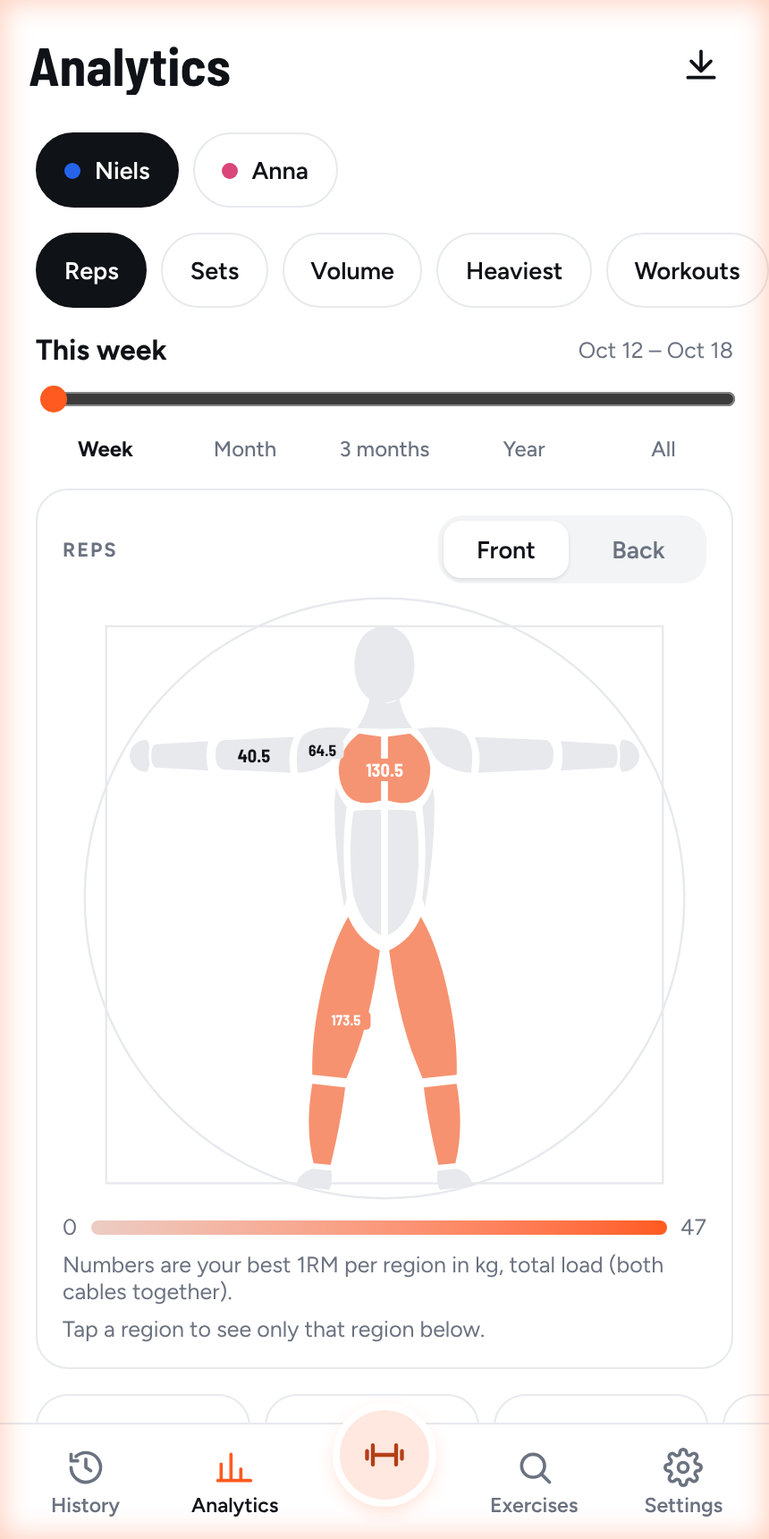
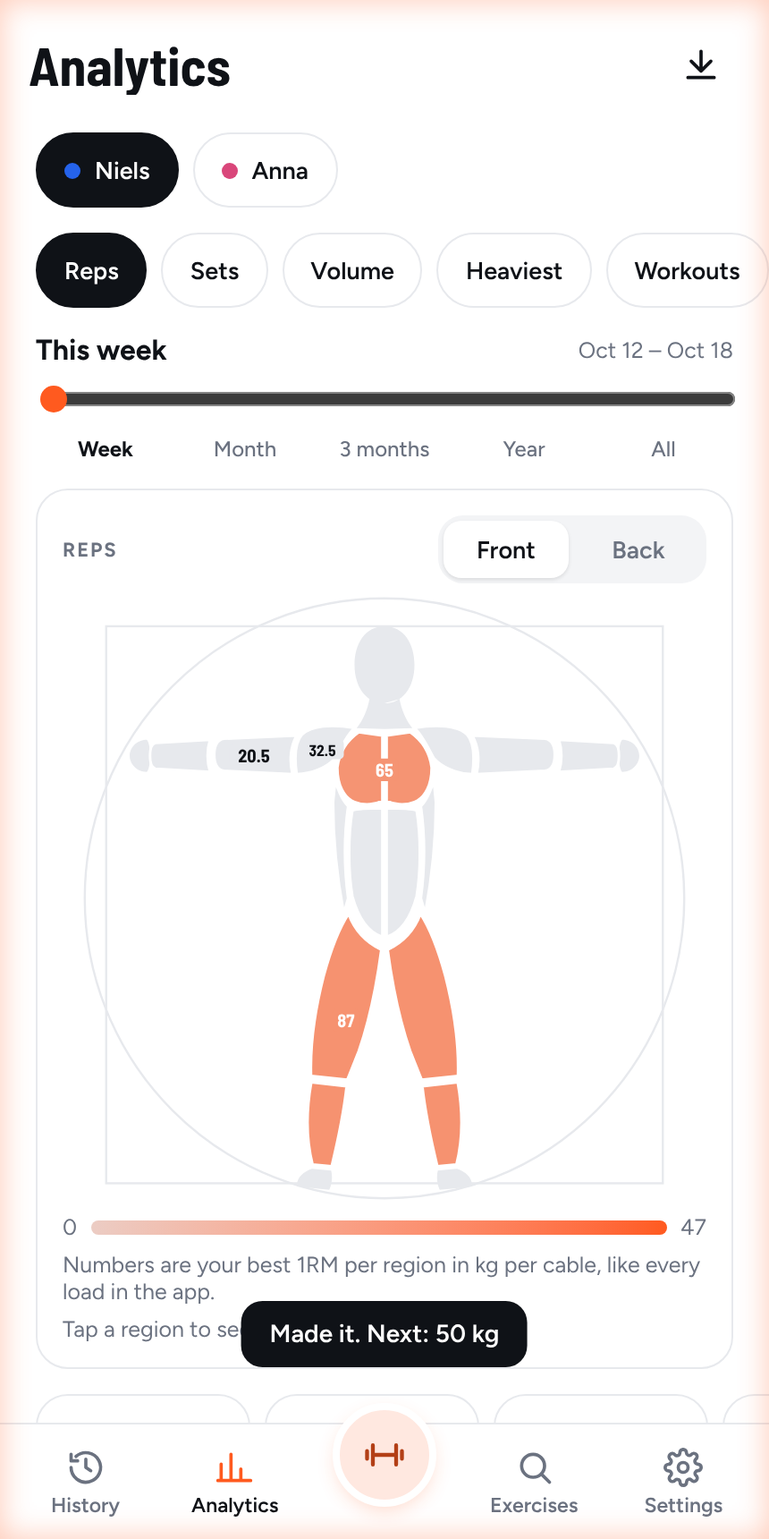
Web demo: 3RM test, per-cable loads with cable mark, live averages (#5)
Brings docs/demo in line with the app: the strength test uses 3-rep
attempts and estimates the 1RM, every load is per cable with a 1/2-cable
mark (body map and 1RM list too), the lifting screen shows Load, Now and
30-day/all-time/best averages, and a no-trainer hint on test attempts.

Claude-Session: https://claude.ai/code/session_016LFfm9ZQ75rLxN4S9CxZRX

diff --git a/docs/demo/index.html b/docs/demo/index.html
@@ -60,6 +60,7 @@ button{font-family:inherit}
 .star.on{color:#F59E0B}
 .orm{display:flex;flex-direction:column;align-items:flex-end;gap:2px;flex:none}
 .orm b{font-family:var(--f-num);font-size:17px;font-weight:700;line-height:1.1}
+.cm{display:inline-block;vertical-align:-1px;opacity:.7;margin-left:4px}
 .tag{font-size:10px;font-weight:700;letter-spacing:.06em;text-transform:uppercase;background:var(--accent-soft);color:var(--accent-ink);border-radius:999px;padding:3px 8px;white-space:nowrap}
 .tag.grey{background:var(--soft);color:var(--muted)}
 .tag.ok{background:var(--ok-soft);color:var(--ok)}
@@ -187,7 +188,7 @@ table.sets th{font-size:11px;letter-spacing:.06em;text-transform:uppercase;color
   <p>A clickable web version of the new layout with a simulated trainer, so you can try every flow without installing the app. Open the link on your phone for the real feel.</p>
   <p>New: the first launch shows onboarding (account, optional PIN, Garmin heart rate) and an app tour with arrows. Settings → Account sets a PIN or switches account; Settings → Help replays the tour. Reset demo data to see the first launch again.</p>
   <p>Train is now a home screen: the training you're doing (anything within 5 hours of the last exercise), live heart rate, and your oldest 1RMs to re-test. Pick an LED colour in Settings and the whole app follows it.</p>
-  <p>Analytics opens on a body map: each region is coloured by the measure and period you pick, with your best 1RM inside it as total load (both cables). Tap a region to narrow the screen to it.</p>
+  <p>Analytics opens on a body map: each region is coloured by the measure and period you pick, with your best 1RM inside it per cable. Tap a region to narrow the screen to it.</p>
   <p>Everything the classic app does has a place here: training, Just Lift, the 1RM test, history, analytics, profiles, trainer connection and all settings. Example lifters and workouts are pre-filled; your changes stay in this browser.</p>
   <button type="button" id="reset">Reset demo data</button>
 </aside>
@@ -277,6 +278,10 @@ const loadFor=(orm,p)=>orm<=0?0:clampKg(orm*p/100);
 const U=()=>S.settings.unit;
 const num=kg=>{if(U()==='lb')return String(Math.round(kg*LB));const r=Math.round(kg*2)/2;return r%1===0?r.toFixed(0):r.toFixed(1)};
 const W=kg=>num(kg)+' '+U();
+// Cable mark: every load is per cable; one or two lines with a handle say how many cables carry it.
+const CM=c=>`<svg class="cm" viewBox="0 0 ${c===2?14:8} 16" width="${c===2?11:6}" height="13" role="img" aria-label="${c===2?'two cables':'one cable'}">${(c===2?[3.5,10.5]:[4]).map(x=>`<line x1="${x}" y1="1" x2="${x}" y2="10.5" stroke="currentColor" stroke-width="2" stroke-linecap="round"/><circle cx="${x}" cy="13.5" r="2.5" fill="currentColor"/>`).join('')}</svg>`;
+const cabOf=id=>{const e=EX(id);return e&&e.single?1:2};
+const WC=(kg,c)=>W(kg)+CM(c);
 const nudgeKg=()=>U()==='lb'?1/LB:STEP;
 function hist(lid,ex){const out=[];S.sessions.forEach(s=>s.sets.forEach(x=>{if(x.lid===lid&&(!ex||s.ex===ex))out.push({ex:s.ex,kg:x.kg,reps:x.reps,t:s.t,mode:s.mode})}));return out}
 function oneRM(lid,ex,depth){
@@ -329,7 +334,7 @@ function longestStanding(limit){
 const setAgo=t=>{const d=Math.floor((Date.now()-t)/86400000);return d<=0?'set today':d===1?'set yesterday':d<14?'set '+d+' days ago':d<60?'set '+Math.floor(d/7)+' weeks ago':'set '+Math.floor(d/30)+' months ago'};
 const esc=s=>String(s).replace(/[&<>"]/g,c=>({'&':'&amp;','<':'&lt;','>':'&gt;','"':'&quot;'}[c]));
 function log(level,msg){R.logs.push({t:new Date(),level,msg});if(R.logs.length>300)R.logs.shift()}
-['Phoenix started','BLE adapter ready','Loaded 31 exercises','Profiles: 2'].forEach(m=>log('INFO',m));
+['vitruvian- started','BLE adapter ready','Loaded 31 exercises','Profiles: 2'].forEach(m=>log('INFO',m));
 
 // ===================== icons =====================
 const I={
@@ -378,7 +383,7 @@ const lifterChips=(sel,attr,multi)=>S.lifters.map(l=>{const on=multi?sel.include
 function ormColumn(ex){
   const e=EX(ex); if(e.bw)return `<div class="orm"><span class="tag grey">Bodyweight</span></div>`;
   const ls=activeL();const miss=ls.filter(l=>!oneRM(l.id,ex));
-  let h=ls.map(l=>{const o=oneRM(l.id,ex);return o?`<b style="color:${color(l)}">${o.src==='RELATED'?'~':''}${W(o.kg)}</b>`:''}).join('');
+  let h=ls.map(l=>{const o=oneRM(l.id,ex);return o?`<b style="color:${color(l)}">${o.src==='RELATED'?'~':''}${WC(o.kg,cabOf(ex))}</b>`:''}).join('');
   if(miss.length&&miss.length===ls.length)h+=`<span class="tag">Benchmark</span>`;
   else if(miss.length)h+=`<span class="tag">${esc(miss.map(m=>m.name).join(', '))}: test</span>`;
   return `<div class="orm">${h}</div>`;
@@ -449,7 +454,7 @@ const views={
   const cards=ls.map(l=>{const o=oneRM(l.id,e.id),kg=setLoad(l.id,0);
    const pr=bestPR(l.id,e.id);
    const note=setup.over[l.id]!=null?'Set by hand':!o?'No 1RM yet · start light':`${setup.pct}% of ${o.src==='RELATED'?'~':''}${W(o.kg)}`;
-   return `<div class="lcard"><span class="row"><span class="dot" style="background:${color(l)}"></span><b>${esc(l.name)}</b></span><span class="big" style="color:${color(l)}">${num(kg)}<small> ${U()}</small></span><span class="small">${note}</span>${pr?`<span class="small">PR ${W(pr.kg)} × ${pr.reps}</span>`:''}${!o||o.src==='RELATED'?`<button class="pill" data-test="${l.id}" style="align-self:flex-start;min-height:32px;padding:4px 10px;margin-top:2px">Test 1RM</button>`:''}<div class="row" style="margin-top:4px"><button class="nudge" data-nudge="${l.id}" data-d="-1" aria-label="Less for ${esc(l.name)}">−</button><button class="nudge" data-nudge="${l.id}" data-d="1" aria-label="More for ${esc(l.name)}">+</button></div></div>`}).join('');
+   return `<div class="lcard"><span class="row"><span class="dot" style="background:${color(l)}"></span><b>${esc(l.name)}</b></span><span class="big" style="color:${color(l)}">${num(kg)}<small> ${U()}</small>${CM(setup.cable==='Single'?1:2)}</span><span class="small">${note}</span>${pr?`<span class="small">PR ${W(pr.kg)} × ${pr.reps}</span>`:''}${!o||o.src==='RELATED'?`<button class="pill" data-test="${l.id}" style="align-self:flex-start;min-height:32px;padding:4px 10px;margin-top:2px">Test 1RM</button>`:''}<div class="row" style="margin-top:4px"><button class="nudge" data-nudge="${l.id}" data-d="-1" aria-label="Less for ${esc(l.name)}">−</button><button class="nudge" data-nudge="${l.id}" data-d="1" aria-label="More for ${esc(l.name)}">+</button></div></div>`}).join('');
   const setRows=setup.sets.map((s,i)=>{
    const what=s.type==='amrap'?'AMRAP':s.type==='time'?s.secs+'s':s.reps+' reps';
    const pct=bw||echo?'':` · ${s.pct??setup.pct}%`;
@@ -527,11 +532,11 @@ const views={
   const nextTurn=run.turn+1<run.total?run.turn+1:null, next=nextTurn!=null?lifter(run.order[nextTurn%run.order.length]):null;
   const target=plan.type==='reps'?`<span>/${plan.reps}</span>`:'';
   return `<div class="screen"><div class="scroll" style="gap:14px">
-   <div class="band" style="background:${color(l)}"><span>${esc(l.name)}${run.order.length>1?` <span style="opacity:.8;font-weight:600">· ${run.order.indexOf(lid)+1} of ${run.order.length}</span>`:''}</span><span id="bandload">${run.bw?'Bodyweight':run.mode==='Echo'?'Echo '+run.echoLevel:W(liveLoad())+' / cable'}</span></div>
-   ${run.justLift?'':`<div class="prog">${run.plan.map((_,i)=>`<i class="${i<si?'d':i===si?'w':''}"></i>`).join('')}</div><span class="small" style="text-align:center;margin-top:-6px">Set ${si+1} of ${run.plan.length} · ${esc(run.exName)} · ${run.mode}</span>`}
+   <div class="band" style="background:${color(l)}"><span>${esc(l.name)}${run.order.length>1?` <span style="opacity:.8;font-weight:600">· ${run.order.indexOf(lid)+1} of ${run.order.length}</span>`:''}</span><span id="bandload">${run.bw?'Bodyweight':run.mode==='Echo'?'Echo '+run.echoLevel:W(liveLoad())+CM(run.cable==='Single'?1:2)}</span></div>
+   ${run.justLift?'':`<div class="prog">${run.plan.map((_,i)=>`<i class="${i<si?'d':i===si?'w':''}"></i>`).join('')}</div><span class="small" style="text-align:center;margin-top:-6px">Set ${si+1} of ${run.plan.length} · ${esc(run.exName)} · ${run.mode}${R.conn==='on'||HR.bpm?' · <span style="color:var(--danger)">♥</span> <span id="hrnow">'+HR.bpm+'</span>':''}</span>`}
    <div><div class="label" id="phase" style="text-align:center">${phaseLabel()}</div><div class="huge" id="reps">${plan.type==='time'?run.left:run.rep}${plan.type==='time'?'<span>s</span>':target}</div></div>
    ${run.bw?'':`<div class="cables"><div class="cable ${run.cable==='Single'?'off':''}"><span>L</span><i id="cl" style="height:0%"></i></div><div class="cable"><span>R</span><i id="cr" style="height:0%"></i></div></div>`}
-   ${run.bw?'':`<div class="stats"><div><span class="label">Load</span><b id="sload">${run.bw?'—':num(liveLoad()*(run.cable==='Single'?1:2))}</b><span class="small">${U()} total</span></div><div><span class="label">Velocity</span><b id="svel">${run.vel.toFixed(2)}</b><span class="small">m/s</span></div><div><span class="label">Power</span><b id="spow">${run.bw?'—':Math.round(liveLoad()*2*9.81*run.vel)}</b><span class="small">W</span></div></div>`}
+   ${run.bw?'':`<div class="stats"><div><span class="label">Load</span><b>${num(curLoad())}${CM(run.cable==='Single'?1:2)}</b><span class="small">${U()} per cable</span></div><div><span class="label">Now</span><b id="sload">${num(liveLoad())}</b><span class="small">${U()} per cable</span></div></div>${run.ex?averages(lid,run.ex,run.cable==='Single'?1:2):''}`}
    ${run.justLift?`<div class="card" style="text-align:center"><span class="small" id="autostop">${run.downLeft!=null?'<b style="color:var(--accent-ink)">Stopping in '+run.downLeft+'…</b>':'Put the handles down for 5 seconds to stop'}</span></div>`:''}
    ${next?`<div class="card" style="flex-direction:row;align-items:center"><span class="av" style="background:${color(next)}">${next.name[0]}</span><span><b>Up next: ${esc(next.name)}</b><br><span class="small">${run.bw?'':W(run.loads[next.id][Math.floor(nextTurn/run.order.length)])+' · '}${planTxt(run.plan[Math.floor(nextTurn/run.order.length)])}</span></span></div>`:''}
   </div>
@@ -563,7 +568,7 @@ const views={
   const t=V.t, l=lifter(t.lid), st=S.assess[t.lid]||(S.assess[t.lid]={done:[]});
   const exId=t.list[t.i], e=EX(exId), a=ANCHORS.find(x=>x[0]===exId), howto=a?a[2]:'Set up as you normally would for '+e.name.toLowerCase()+'. Move slowly and keep the same range every rep.';
   const o=oneRM(t.lid,exId);
-  const head=`${top('1RM test',t.back||'train')}<div class="scroll">
+  const head=`${top('3RM test',t.back||'train')}<div class="scroll">
    <div class="row wrap">${lifterChips(t.lid,'tlid')}</div>
    ${t.list.length>1?`<div class="prog">${t.list.map((id,i)=>`<i class="${st.done.includes(id)?'d':i===t.i?'w':''}"></i>`).join('')}</div>`:''}
    <span class="small">${t.list.length>1?(t.i+1)+' of '+t.list.length+' · ':''}<b style="color:var(--ink)">${esc(e.name)}</b> · ${esc(e.equip)}${o&&o.src!=='RELATED'?' · current 1RM '+W(o.kg):''}</span>`;
@@ -572,24 +577,26 @@ const views={
    <div class="video">${I.play.replace('<svg','<svg style="width:48px;height:48px;fill:#fff;stroke:none"')}</div>
    <div class="card"><span class="label">How to do it</span><span>${howto}</span></div>
    <div class="card"><span class="label">How the test works</span>
-    <span class="small" style="font-size:14px">1. Warm up: 10 easy reps, then 3 reps a bit heavier.<br>2. Lift <b>one rep</b> at the start weight${o&&o.src!=='RELATED'?' (90% of your 1RM)':''}.<br>3. Made it? The weight goes up for the next attempt.<br>4. Keep going until you miss a rep. Your 1RM is the heaviest rep you made.</span></div>
+    <span class="small" style="font-size:14px">1. Warm up: 10 easy reps, then 3 reps a bit heavier.<br>2. Lift <b>3 reps</b> at the start weight${o&&o.src!=='RELATED'?' (80% of your 1RM)':''}.<br>3. Made all 3? The weight goes up for the next attempt.<br>4. Keep going until you can't finish 3 reps. Your 3RM is the heaviest set you made; your 1RM is estimated from it.<br>Loads are per cable (the mark shows 1 or 2 cables). The lowering part is the same weight as the lift.</span></div>
   </div><div class="bar"><div class="row"><button class="ghost" data-tskip>Skip exercise</button><button class="btn accent" style="flex:2" data-tbegin>Start attempts</button></div></div></div>`;
   if(t.phase==='attempt'){
    const n=t.attempts.length+1, best=bestOk(t);
    return `<div class="screen">${head}
-   ${t.restLeft>0?`<div class="win"><span><b>Rest before attempt ${n}</b><br><span style="font-size:13px">Full rest makes the next rep count.</span></span><b class="big" style="font-size:32px" id="trest">${mmss(t.restLeft)}</b></div>`:''}
-   <div class="outline" style="align-items:center;text-align:center"><span class="label">Attempt ${n} · one rep</span>
-    <span class="big" style="font-size:72px;color:${color(l)}">${num(t.kg)}<small> ${U()}</small></span>
+   ${t.restLeft>0?`<div class="win"><span><b>Rest before attempt ${n}</b><br><span style="font-size:13px">Full rest makes the next set count.</span></span><b class="big" style="font-size:32px" id="trest">${mmss(t.restLeft)}</b></div>`:''}
+   <div class="outline" style="align-items:center;text-align:center"><span class="label">Attempt ${n} · 3 reps</span>
+    <span class="big" style="font-size:72px;color:${color(l)}">${num(t.kg)}<small> ${U()}</small>${CM(cabOf(exId))}</span>
+    <span class="small">${cabOf(exId)===2?'per cable · '+W(t.kg*2)+' total':'one cable'}</span>
     <span class="small">${n===1?(t.startNote||''):'Heaviest made so far: '+W(best)}</span>
     <div class="row" style="width:100%"><button class="nudge" data-tkg="-2">−${num(nudgeKg()*2)}</button><button class="nudge" data-tkg="-1">−${num(nudgeKg())}</button><button class="nudge" data-tkg="1">+${num(nudgeKg())}</button><button class="nudge" data-tkg="2">+${num(nudgeKg()*2)}</button></div></div>
    ${tries}
-  </div><div class="bar"><span class="label" style="text-align:center">How did the rep go?</span><div class="row"><button class="ghost danger" data-tres="miss">Missed</button><button class="ghost" data-tres="tough">Made it, tough</button><button class="ghost" data-tres="easy">Made it, easy</button></div></div></div>`;
+   ${R.conn==='on'?'':'<span class="error">No Vitruvian found yet. The set starts once the trainer is connected. Check it\'s switched on and nearby.</span>'}
+  </div><div class="bar"><span class="label" style="text-align:center">How did the 3 reps go?</span><div class="row"><button class="ghost danger" data-tres="miss">Missed</button><button class="ghost" data-tres="tough">Made it, tough</button><button class="ghost" data-tres="easy">Made it, easy</button></div></div></div>`;
   }
   // result
   const best=bestOk(t), lastMiss=[...t.attempts].reverse().find(x=>!x.ok), mid=best&&lastMiss?clampKg((best+lastMiss.kg)/2):0;
   return `<div class="screen">${head}
-   ${best?`<div class="win" style="flex-direction:column;align-items:flex-start"><span class="label" style="color:var(--accent-ink)">New 1RM · ${esc(l.name)}</span><span class="big">${num(best)} <small>${U()}</small></span><span style="font-size:13px">${o&&o.src!=='RELATED'?(best>o.kg+.01?'Up from '+W(o.kg):best<o.kg-.01?'Down from '+W(o.kg)+'. Save it only if today was a normal day.':'Same as before'):'Your first tested 1RM for this exercise'}</span></div>`
-   :`<div class="card"><b>No rep made yet</b><span class="small" style="font-size:14px">Rest, then try lighter. We suggest ${W(t.kg)}.</span></div>`}
+   ${best?`<div class="win" style="flex-direction:column;align-items:flex-start"><span class="label" style="color:var(--accent-ink)">New 3RM · ${esc(l.name)}</span><span class="big">${num(best)} <small>${U()}</small>${CM(cabOf(exId))}</span><b style="font-size:17px">Estimated 1RM ${W(est1(best))}</b><span style="font-size:13px">${o&&o.src!=='RELATED'?(est1(best)>o.kg+.01?'1RM up from '+W(o.kg):est1(best)<o.kg-.01?'1RM down from '+W(o.kg)+'. Save it only if today was a normal day.':'Same as before'):'Your first tested 1RM for this exercise'}</span></div>`
+   :`<div class="card"><b>No set made yet</b><span class="small" style="font-size:14px">Rest, then try lighter. We suggest ${W(t.kg)}.</span></div>`}
    ${tries}
    ${mid&&mid>best+.01&&mid<lastMiss.kg-.01?`<button class="ghost" data-tmid="${mid}" style="flex:none">One more try at ${W(mid)}</button>`:''}
   </div><div class="bar">${best?`<div class="row"><button class="ghost" data-tskip>Don't save</button><button class="btn accent" style="flex:2" data-tsave>Save 1RM${t.i<t.list.length-1?' · next':''}</button></div>`:`<div class="row"><button class="ghost" data-tskip>Skip exercise</button><button class="btn" style="flex:2" data-tretry>Try ${W(t.kg)}</button></div>`}</div></div>`;
@@ -679,7 +686,7 @@ const views={
    <div class="outline" style="gap:6px"><div class="row"><span class="label grow">${m}</span><div class="seg" style="width:150px;padding:3px">${['Front','Back'].map(x=>`<button class="${UI.aSide===x.toLowerCase()?'on':''}" data-aside="${x.toLowerCase()}" style="min-height:32px">${x}</button>`).join('')}</div></div>
     <div class="flipwrap" id="flip">${bodySvg(stats.map(x=>Object.assign({},x,{best:regionPr(lid,x.region)})),m,UI.aSide,reg)}</div>
     <div class="row"><span class="small">0</span><span style="flex:1;height:8px;border-radius:4px;background:linear-gradient(90deg,color-mix(in srgb,var(--accent) 20%,var(--line)),var(--accent))"></span><span class="small">${max>0?fmtM(max,m,true):'–'}</span></div>
-    <span class="small">Numbers are your best 1RM per region in ${U()}, total load (both cables together).</span>
+    <span class="small">Numbers are your best 1RM per region in ${U()} per cable, like every load in the app.</span>
     ${reg?`<button class="chip on" data-areg="" style="align-self:flex-start;min-height:36px">Only ${reg} ✕</button>`:'<span class="small">Tap a region to see only that region below.</span>'}</div>
    <div class="hscroll">${kpis.map(([v,l,c])=>`<div class="outline" style="min-width:120px;flex:none;gap:2px"><b class="big" style="font-size:28px;white-space:nowrap">${v}</b><span class="small">${l}</span>${c==null?'':`<b style="font-size:13px;color:${c>=0?'var(--accent)':'var(--muted)'}">${c>0?'▲ '+c+'%':c<0?'▼ '+(-c)+'%':'= same'}</b>`}</div>`).join('')}</div>
    <div class="outline"><span class="label">${m} · ${W_[0]}${reg?' · '+reg:''}</span><b style="font-size:16px">${pb?fmtM(pb.v,m)+' · '+pb.label:'Nothing in this period'}</b>
@@ -690,8 +697,8 @@ const views={
    <div class="outline"><span class="label">Balance · ${m.toLowerCase()} per region</span>${stats.slice().sort((a,b)=>b.value-a.value).map(s=>`<button data-areg="${s.region}" style="display:flex;align-items:center;gap:8px;border:0;background:none;padding:6px 0;cursor:pointer;color:var(--ink);font:inherit"><span style="width:76px;text-align:left;font-weight:${s.region===reg?700:500}">${s.region}</span><span style="flex:1;height:10px;border-radius:5px;background:var(--line);overflow:hidden"><span style="display:block;height:10px;border-radius:5px;width:${max>0?s.value/max*100:0}%;background:var(--accent);opacity:${!reg||s.region===reg?1:.35}"></span></span><span class="small" style="width:56px;text-align:right">${fmtM(s.value,m,true)}</span></button>`).join('')}</div>
    <span class="label">Exercises${reg?' · '+reg:''}</span>
    ${exs.length?`<div class="hscroll">${exs.map(e=>`<div class="outline" style="width:168px;flex:none;gap:2px"><b style="white-space:nowrap;overflow:hidden;text-overflow:ellipsis">${esc(e.name)}</b><span class="small">${e.region||'Other'}</span><b class="big" style="font-size:26px;color:var(--accent);margin-top:6px">${fmtM(e.v,m)}</b><span class="small">${e.best?'Heaviest '+W(e.best):'No load'}</span><div style="margin-top:6px">${spark(e.pts)}</div></div>`).join('')}</div>`:`<span class="small">Nothing ${reg?'for '+reg.toLowerCase()+' ':''}in this period yet.</span>`}
-   <div class="outline"><span class="label">1RMs${reg?' · '+reg:''}</span>${maxes.slice(0,8).map(([id,o])=>`<div class="kv"><span>${esc(exById[id].name)}<br><span class="small">${o.src==='BENCHMARK'?'Tested':o.src==='MANUAL'?'Entered by hand':'Worked out from your sets'}${exById[id].single?' · one cable':' · '+W(o.kg)+' per cable'}</span></span><b style="color:var(--accent)">${W(o.kg*(exById[id].single?1:2))}</b></div>`).join('')||'<span class="small">No 1RMs yet. Run the 1RM test from Train, or train an exercise and one is worked out from your sets.</span>'}</div>
-   ${recs.length?`<div class="outline"><span class="label">Records · ${W_[0]}</span>${recs.slice(0,6).map(x=>`<div class="kv"><span>${esc(x.ex)}</span><span>${W(x.kg)} · ${df(x.t)}</span></div>`).join('')}</div>`:''}
+   <div class="outline"><span class="label">1RMs${reg?' · '+reg:''}</span>${maxes.slice(0,8).map(([id,o])=>`<div class="kv"><span>${esc(exById[id].name)}<br><span class="small">${o.src==='BENCHMARK'?'Tested':o.src==='MANUAL'?'Entered by hand':'Worked out from your sets'}${exById[id].single?' · one cable':' · per cable, '+W(o.kg*2)+' total'}</span></span><b style="color:var(--accent)">${WC(o.kg,exById[id].single?1:2)}</b></div>`).join('')||'<span class="small">No 1RMs yet. Run the 1RM test from Train, or train an exercise and one is worked out from your sets.</span>'}</div>
+   ${recs.length?`<div class="outline"><span class="label">Records · measured · ${W_[0]}</span>${recs.slice(0,6).map(x=>`<div class="kv"><span>${esc(x.ex)}</span><span>${W(x.kg)} · ${df(x.t)}</span></div>`).join('')}</div>`:''}
    <button class="navrow" data-go="acharts" style="border:1.5px solid var(--line);border-radius:18px;padding:12px 16px"><span class="grow">More charts and CSV export<br><span class="small">PR charts, consistency, safety events and exports</span></span>${I.chev}</button>
   </div>${tabs('analytics')}</div>`;
  },
@@ -906,8 +913,8 @@ function insightsFor(all,m,w,r){
   const s=weekStreak(all);if(s>=2)out.push({t:s+' weeks in a row',b:'At least one workout every week. Keep it going.'});
   return out;
 }
-// Best real 1RM in a region as total load: 1RMs are per cable, so double-cable lifts count twice.
-function regionPr(lid,region){let best=null;EXERCISES.forEach(e=>{if(e.bw||REGION_OF[e.group]!==region)return;const o=oneRM(lid,e.id);if(!o||o.src==='RELATED')return;const t=o.kg*(e.single?1:2);if(best==null||t>best)best=t});return best}
+// Best real 1RM in a region, per cable like every load in the app.
+function regionPr(lid,region){let best=null;EXERCISES.forEach(e=>{if(e.bw||REGION_OF[e.group]!==region)return;const o=oneRM(lid,e.id);if(!o||o.src==='RELATED')return;const t=o.kg;if(best==null||t>best)best=t});return best}
 function textOn(hex){return lum(hex2rgb(hex))<.42?'#fff':'var(--ink)'}
 function bodySvg(stats,m,side,sel){
   const acc=getComputedStyle(app).getPropertyValue('--accent').trim()||DEFAULT_ACCENT, line=getComputedStyle(app).getPropertyValue('--line').trim()||'#E7E9ED';
@@ -986,7 +993,7 @@ const TOUR=[
  ['train','conn','Your trainer','Shows whether the trainer is connected. Tap it to connect over Bluetooth.'],
  ['train','pick','Start a set',"Pick an exercise to open Set setup. Choose a mode, sets and reps; the load starts at a % of each lifter's 1RM, shown next to every exercise."],
  ['train','tiles','Just Lift and muscle groups','Just Lift starts the trainer straight away with no plan. Muscle groups lists exercises by body area.'],
- ['train','orm','Find your 1RM','The 1RM test shows how each lift is done, then goes up one rep at a time until a miss. Your heaviest rep becomes your 1RM, and all loads follow from it.'],
+ ['train','orm','Find your 1RM','The 3RM test shows how each lift is done, then 3-rep sets go up until one is missed. Your 1RM is estimated from the heaviest set, and all loads follow from it.'],
  ['train','tab-history','History','Every workout with sets, loads and heart rate. Tap one for the details.'],
  ['train','tab-analytics','Analytics','Your week, streaks, 1RMs and records, with charts per exercise.'],
  ['exercises','search','Exercises','Search the library or filter by muscle and equipment. Tap ▶ on an exercise for a demo video.'],
@@ -1048,7 +1055,7 @@ function connSheet(){
   if(R.conn==='scanning'||R.conn==='connecting')return;
   if(R.conn==='on'){confirmSheet('Disconnect trainer?','You can reconnect from the Train screen at any time.','Disconnect',()=>{R.conn='off';log('INFO','Disconnected from '+S.device);toast('Disconnected');render()});return}
   if(!R.perm){
-    sheet(`<h3>Allow Bluetooth</h3><span class="small" style="font-size:14px">Phoenix needs Bluetooth and nearby-devices permission to find your trainer.</span><button class="btn" data-ok>Allow</button><button class="ghost" data-x>Not now</button>`,(d,close)=>{close();if(d.ok!=null){R.perm=true;log('INFO','Bluetooth permissions granted');connSheet()}else pendingStart=null});return;
+    sheet(`<h3>Allow Bluetooth</h3><span class="small" style="font-size:14px">vitruvian- needs Bluetooth and nearby-devices permission to find your trainer.</span><button class="btn" data-ok>Allow</button><button class="ghost" data-x>Not now</button>`,(d,close)=>{close();if(d.ok!=null){R.perm=true;log('INFO','Bluetooth permissions granted');connSheet()}else pendingStart=null});return;
   }
   R.conn='scanning';log('INFO','Scanning for Vitruvian devices');render();
   const sh=sheet(`<h3>Select your trainer</h3><div id="devlist"><span class="small">Scanning…</span></div><div class="row"><button class="ghost" data-x>Cancel</button><button class="ghost" data-rescan>Rescan</button></div>`,(d,close,el)=>{
@@ -1125,10 +1132,14 @@ function onRep(plan){
   if(ph)ph.textContent=phaseLabel();
   const v=app.querySelector('#svel'),p=app.querySelector('#spow'),sl=app.querySelector('#sload'),bl=app.querySelector('#bandload');
   if(v)v.textContent=run.vel.toFixed(2);if(p)p.textContent=Math.round(liveLoad()*2*9.81*run.vel);
-  if(sl)sl.textContent=num(liveLoad()*(run.cable==='Single'?1:2));if(bl&&run.mode!=='Echo')bl.textContent=W(liveLoad())+' / cable';
+  if(sl)sl.textContent=num(liveLoad());if(bl&&run.mode!=='Echo')bl.innerHTML=W(liveLoad())+CM(run.cable==='Single'?1:2);
   if(plan.type==='reps'&&run.rep>=plan.reps)finishSet();
   else if(plan.type==='amrap'&&!run.justLift&&run.rep>=run.failAt){toast('Handles down · set ends');finishSet()}
 }
+// Same three numbers as the app's live screen: this lifter's 30-day and all-time average set load, and the best.
+function averages(lid,ex,c){const h=hist(lid,ex);if(!h.length)return '';const m=h.filter(x=>Date.now()-x.t<30*86400000),avg=xs=>xs.length?num(xs.reduce((a,x)=>a+x.kg,0)/xs.length)+CM(c):'–';
+  const st=(l,v)=>`<div><span class="label">${l}</span><b style="font-size:20px">${v}</b></div>`,days=new Set(h.map(x=>Math.floor(x.t/86400000))).size;
+  return `<div class="stats">${st('30-day avg',avg(m))}${st('All-time avg',avg(h))}${st('Best',num(Math.max(...h.map(x=>x.kg)))+CM(c))}</div><span class="small" style="text-align:center;margin-top:-6px">Usually ${Math.round(h.reduce((a,x)=>a+x.reps,0)/h.length)} reps a set · ${days} workouts</span>`}
 function finishSet(){
   stopTimers();
   const lid=curLid(), si=curSet(), plan=run.plan[si], kg=run.bw?0:curLoad();
@@ -1231,13 +1242,15 @@ const STEPS={
  defreps:d=>S.settings.defaultReps=Math.min(30,Math.max(1,S.settings.defaultReps+d)),
  defwarm:d=>S.settings.warmup=Math.min(5,Math.max(0,S.settings.warmup+d))
 };
-// 1RM test: demo, warm-up, then single-rep attempts that go up until a miss.
+// Strength test: demo, warm-up, then 3-rep attempts that go up until a set is missed.
+// The heaviest made set is the 3RM; the stored 1RM is estimated from it (Epley, 3RM × 1.1).
+const est1=kg=>roundStep(fromWorkingSet(kg,3,0));
 const bestOk=t=>Math.max(0,...t.attempts.filter(x=>x.ok).map(x=>x.kg));
 function testStart(lid,ex){
   const o=oneRM(lid,ex), a=ANCHORS.find(x=>x[0]===ex);
-  if(o&&o.src!=='RELATED')return {kg:clampKg(o.kg*.9),note:'90% of your 1RM of '+W(o.kg),known:true};
-  if(o)return {kg:clampKg(o.kg*.7),note:'A careful start, based on your other lifts'};
-  return {kg:a?a[1]:10,note:'A light start. It goes up quickly while reps feel easy.'};
+  if(o&&o.src!=='RELATED')return {kg:clampKg(o.kg*.8),note:'80% of your 1RM of '+W(o.kg),known:true};
+  if(o)return {kg:clampKg(o.kg*.65),note:'A careful start, based on your other lifts'};
+  return {kg:a?a[1]:10,note:'A light start. It goes up quickly while sets feel easy.'};
 }
 function testFor(lid,t){const s=testStart(lid,t.list[t.i]);Object.assign(t,{lid,phase:'intro',attempts:[],kg:s.kg,startNote:s.note,known:!!s.known,restLeft:0})}
 function openTest(lid,list,back){
@@ -1249,7 +1262,7 @@ function testRest(){
   clearInterval(timer);V.t.restLeft=120;
   timer=setInterval(()=>{const t=V.t;if(!t){clearInterval(timer);return}t.restLeft--;const el=app.querySelector('#trest');if(t.restLeft<=0){clearInterval(timer);timer=null;render();return}if(el)el.textContent=mmss(t.restLeft)},1000);
 }
-function testNext(){const t=V.t;clearInterval(timer);timer=null;if(t.i<t.list.length-1){t.i++;testFor(t.lid,t);render()}else{toast(t.list.length>1?'1RM test complete':'Saved');go(t.back||'train')}}
+function testNext(){const t=V.t;clearInterval(timer);timer=null;if(t.i<t.list.length-1){t.i++;testFor(t.lid,t);render()}else{toast(t.list.length>1?'Strength test complete':'Saved');go(t.back||'train')}}
 
 function flipTo(side){if(UI.aSide===side){render();return}const f=app.querySelector('#flip');UI.aSide=side;if(!f||matchMedia('(prefers-reduced-motion: reduce)').matches){render();return}f.style.transform="perspective(800px) rotateY(90deg)";setTimeout(()=>{render();const g=app.querySelector('#flip');if(!g)return;g.style.transition='none';g.style.transform="perspective(800px) rotateY(-90deg)";requestAnimationFrame(()=>requestAnimationFrame(()=>{g.style.transition='';g.style.transform=''}))},160)}
 app.addEventListener('click',ev=>{
@@ -1316,7 +1329,7 @@ app.addEventListener('click',ev=>{
   // workout
   if(d.skipcount!=null){liftSet();return}
   if(d.stop!=null){finishSet();return}
-  if(d.adj){const lid=curLid(),si=curSet();run.loads[lid][si]=clampKg(run.loads[lid][si]+ +d.adj*nudgeKg());const bl=app.querySelector('#bandload'),sl=app.querySelector('#sload');if(bl)bl.textContent=W(liveLoad())+' / cable';if(sl)sl.textContent=num(liveLoad()*(run.cable==='Single'?1:2));return}
+  if(d.adj){const lid=curLid(),si=curSet();run.loads[lid][si]=clampKg(run.loads[lid][si]+ +d.adj*nudgeKg());const bl=app.querySelector('#bandload'),sl=app.querySelector('#sload');if(bl)bl.innerHTML=W(liveLoad())+CM(run.cable==='Single'?1:2);if(sl)sl.textContent=num(liveLoad());return}
   if(d.ready!=null){countdown();return}
   if(d.endall!=null){confirmSheet('End workout?','Sets you already finished are saved to History.','End workout',()=>{if(V.screen==='lifting'&&run.rep>0){run.total=run.turn+1}endWorkoutNow()},true);return}
   // 1RM test
@@ -1331,7 +1344,7 @@ app.addEventListener('click',ev=>{
     toast('Made it. Next: '+W(t.kg));testRest();render();return}
   if(d.tmid){V.t.kg=+d.tmid;V.t.phase='attempt';testRest();render();return}
   if(d.tretry!=null){V.t.phase='attempt';testRest();render();return}
-  if(d.tsave!=null){const t=V.t,ex=t.list[t.i];(S.stored[t.lid]=S.stored[t.lid]||{})[ex]={kg:bestOk(t),src:'BENCHMARK',t:Date.now()};const st=S.assess[t.lid]||(S.assess[t.lid]={done:[]});if(!st.done.includes(ex))st.done.push(ex);save();toast('Saved '+lifter(t.lid).name+"'s 1RM: "+W(bestOk(t)));testNext();return}
+  if(d.tsave!=null){const t=V.t,ex=t.list[t.i];(S.stored[t.lid]=S.stored[t.lid]||{})[ex]={kg:est1(bestOk(t)),src:'BENCHMARK',t:Date.now()};const st=S.assess[t.lid]||(S.assess[t.lid]={done:[]});if(!st.done.includes(ex))st.done.push(ex);save();toast('Saved '+lifter(t.lid).name+"'s 1RM: "+W(est1(bestOk(t))));testNext();return}
   if(d.tskip!=null){testNext();return}
   if(d.test){openTest(d.test,[setup.ex],'setup');return}
   if(d.retest){openTest(d.retest,[d.rex],'train');return}
